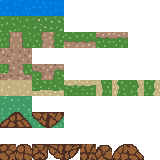
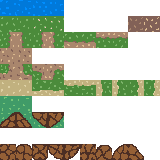
Farmed dirt and Watered dirt added

Changed region(s): [[0.7812, 0.0938, 1.0, 0.2188]]

diff --git a/scripts/FarmingSystem.cs b/scripts/FarmingSystem.cs
@@ -7,7 +7,7 @@ public partial class FarmingSystem : Node2D
 	[Export] public TileMapLayer FarmingLayer;  // Sem budeme kreslit hlínu
 	
 	// Souřadnice v Atlasu pro okopanou hlínu (uprav podle svého TileSetu)
-	private Vector2I _tilledDirtCoords = new Vector2I(1, 0); 
+	private Vector2I _tilledDirtCoords = new Vector2I(9, 1); 
 	private int _selectedSlot = 1;
 
 	public override void _Input(InputEvent @event)
